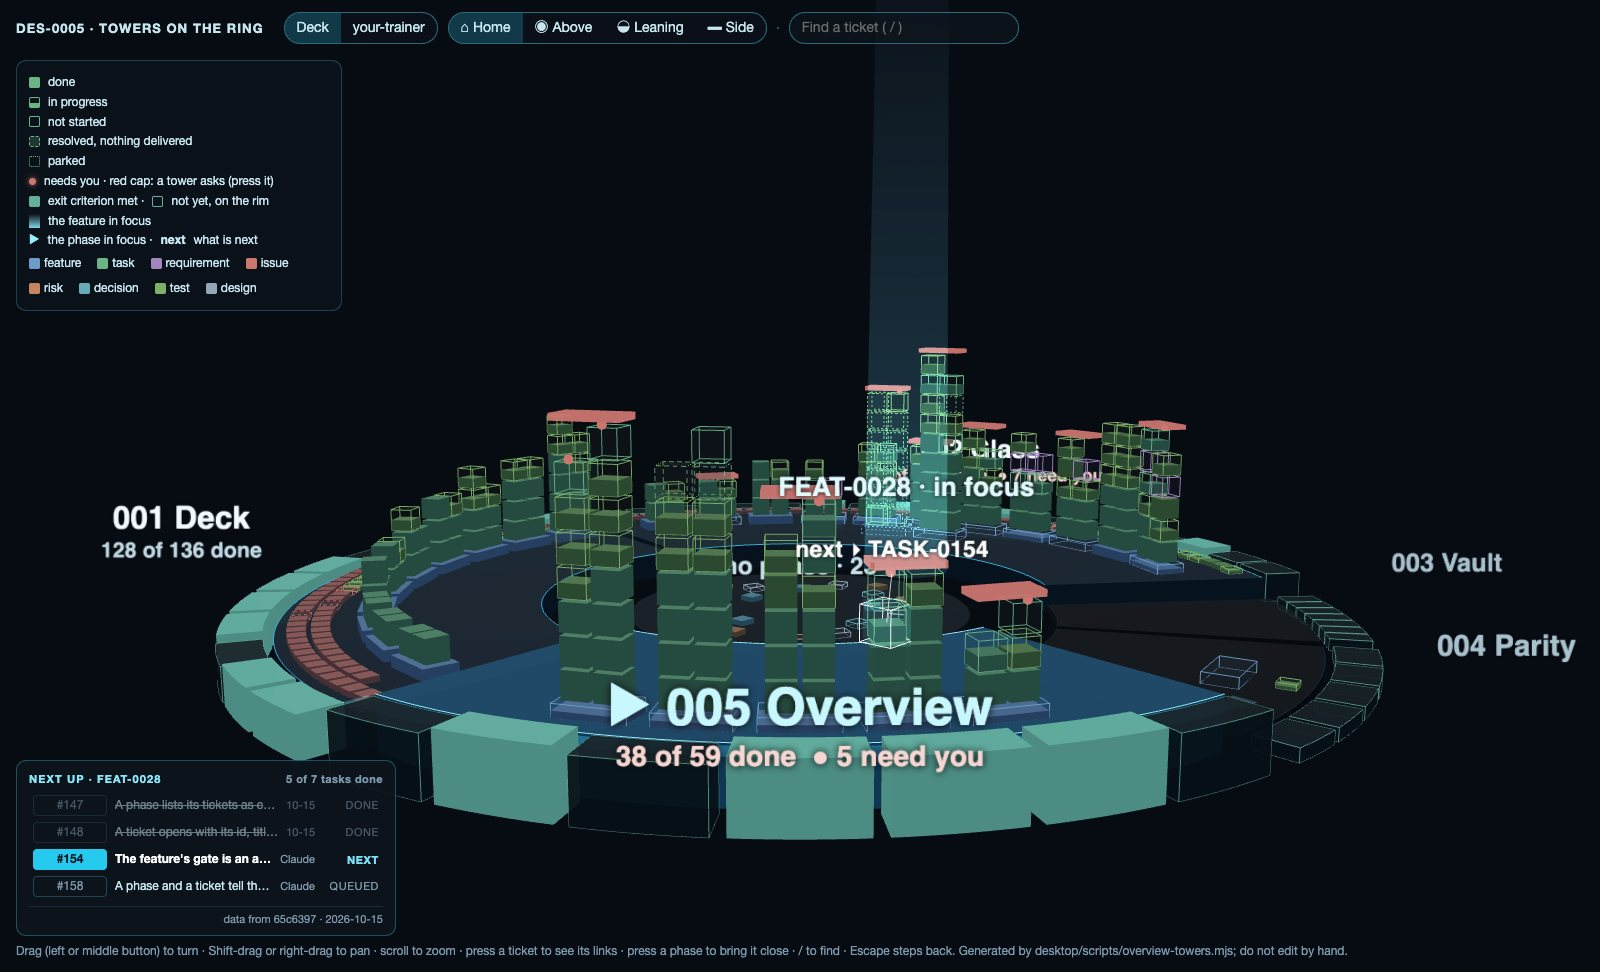
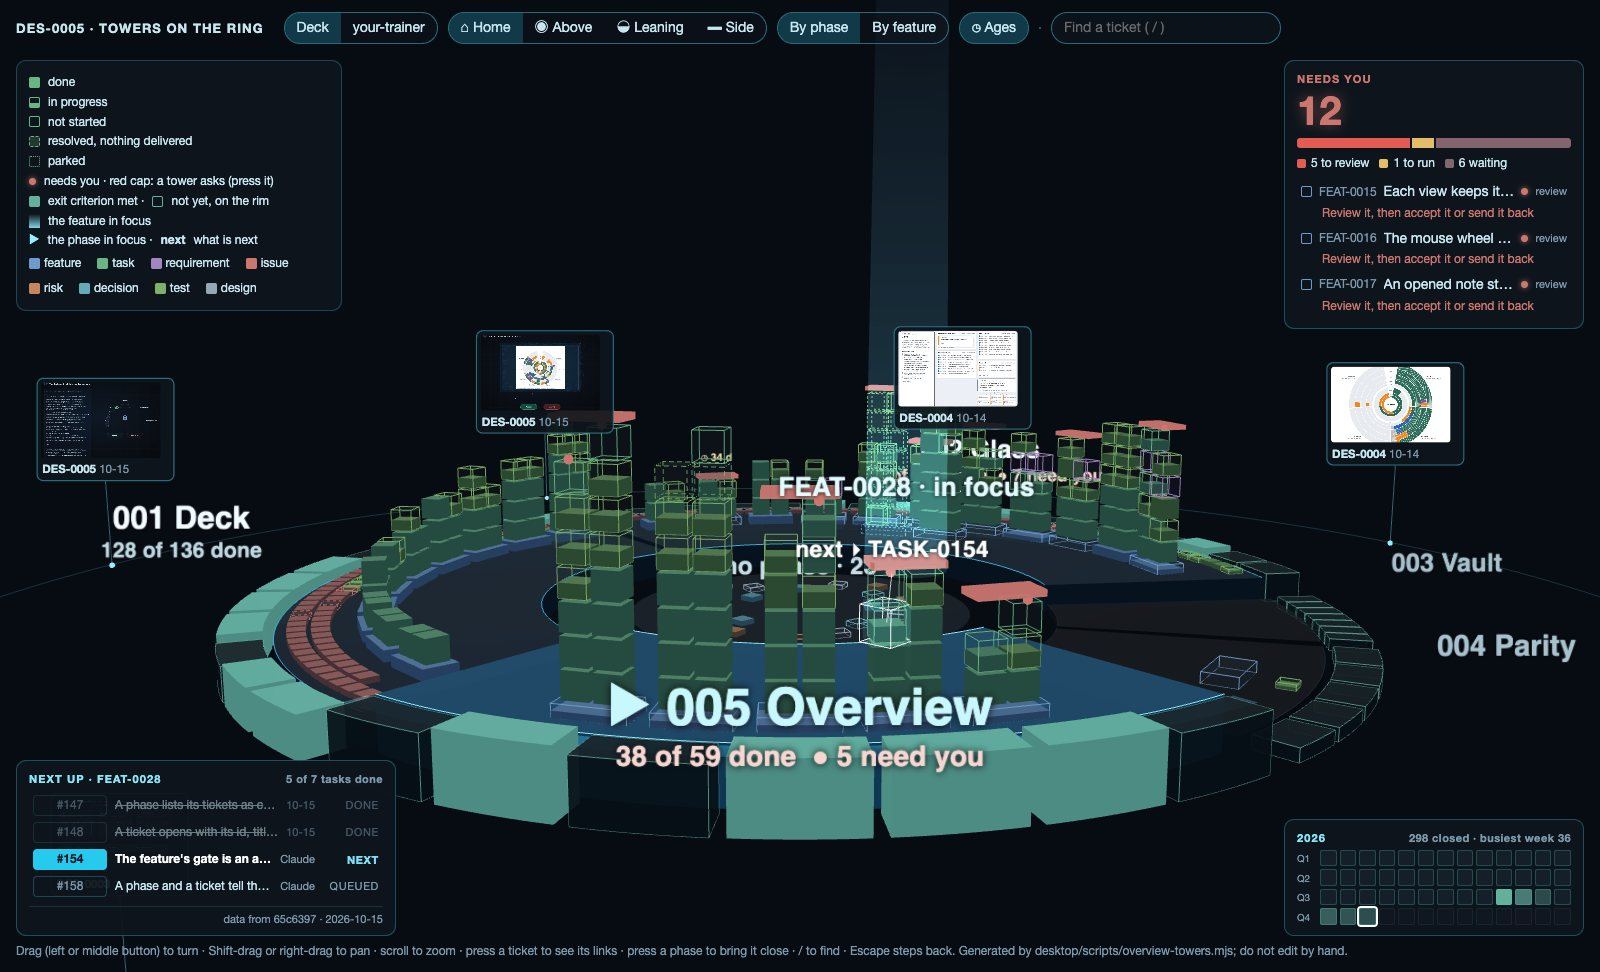
DES-0005 shows the needs-you panel, grouping by feature, age badges, the evidence ring and the weeks, with pictures and what building them would cost (TASK-0177)

diff --git a/docs/designs/DES-0005-The-Overview-Is-Drawn-Not-Written.md b/docs/designs/DES-0005-The-Overview-Is-Drawn-Not-Written.md
@@ -255,6 +255,38 @@ A search for "heart rate" on your-trainer: 29 matches, in four phases of the rin
 - Search matches ids and titles, not the notes' text.
 - The board shows the focus feature only. When the snapshot names no feature in focus, or the feature in focus does not stand on the ring, it says which and is empty.
 
+## Needs you, grouping by feature, ages and weeks, the other four ideas from Rubric
+
+**The towers page now also draws the other four ideas taken from Rubric: a needs-you panel, a switch to group the ring by feature, age badges with a ring of recent evidence, and the year as weeks** ([[TASK-0177]], 2026-10-21). Edwin asked for them after trying the first three. Deck is not changed.
+
+- **A needs-you panel, top right.** A large count of the tickets that need you, then one bar split by the cockpit's reasons: failed, to review, to decide (triage), to run (a test never run) and waiting. The first three tickets follow as cockpit rows, the most urgent reason first. Pressing a part of the bar, or its word, lights those tickets on the ring as a search does; pressing a row selects its ticket.
+- **By phase, or by feature.** A switch in the header regroups the ring. By feature, each unfinished feature is a segment with its tickets as one tower, whatever phase they are in, and the feature in focus faces you. Finished features stand on the shelf, and tickets of no feature lie in the core. Each segment's name is smaller than a phase's, since there are many more of them. The page remembers the choice in this browser.
+- **Age badges.** A tower whose tickets have not changed for 14 days or more carries "◷ 34 d": the days from its newest change to the date the data was read, which is the fixture's date, not today. The card gives the same count for one ticket. "◷ Ages" in the header hides and shows them.
+- **A ring of recent evidence**, outside the shelf: up to eighteen of the newest pictures kept beside the notes, at most three for one ticket, each on a post with its ticket's id and date. A picture belongs to the note that links to it, else to the ticket its file name names, else to the feature whose folder holds it; its date is its last commit. Pressing one selects its ticket. The pictures are the files themselves, so the page shows them only where the repositories sit side by side, as here.
+- **The year as weeks, bottom right**: four rows of thirteen squares, each filled by the tickets closed that week, the week the data was read outlined and the weeks after it faint. A ticket's closing week is the last update of its note. Pressing a week lights the tickets closed in it.
+- The two panels on the right give way to the right pane when it opens.
+
+![Deck grouped by feature](__attachments__/DES-0005/towers-deck-byfeature.jpg)
+
+Deck grouped by feature: the 15 unfinished features stand on the ring, FEAT-0028 in focus at the front, and 147 tickets of no feature lie in the core. The needs-you panel counts 12: 5 to review, 1 to run and 6 waiting. The year shows 298 tickets closed in 2026, the busiest week the 36th. The evidence ring holds eight pictures: three each of DES-0005 and DES-0004, two of DES-0003.
+
+![Deck as the page opens, with the panels round the towers](__attachments__/DES-0005/towers-deck-home.jpg)
+
+Deck by phase, as the page opens, with every panel round the towers. One tower carries an age badge: FEAT-0016 in Glass, quiet for 34 days.
+
+![your-trainer grouped by feature](__attachments__/DES-0005/towers-your-trainer-byfeature.jpg)
+
+your-trainer grouped by feature: 51 unfinished features on the ring and 1,520 tickets of no feature in the core. 75 tickets need you: 5 to decide, 9 to run and 61 waiting. 1,478 tickets closed in 2026, most in week 24.
+
+![your-trainer as the page opens](__attachments__/DES-0005/towers-your-trainer-home.jpg)
+
+your-trainer by phase: 41 towers carry age badges, the quietest FEAT-0025 and FEAT-0028 in the backlog phase at 235 and 233 days. The evidence ring holds eighteen pictures, from DES-0006, DES-0005, FEAT-0112, FEAT-0129 and six issues.
+
+**What building them into Deck would cost.** The needs-you panel needs nothing new: each ticket's reason is already in Deck's overview model. Grouping by feature uses the feature each ticket already carries (FEAT-0026). Age badges and the weeks need each note's `updated:` in the model, which TASK-0176's board needs as well. The evidence ring needs a new read: the pictures beside the notes and their dates, which the sidecar does not list today; Deck would serve them read-only, like the notes. **What it leaves open:**
+- A ticket's closing week is its note's last update, which can be later than the day it closed.
+- Ages are counted to the fixture's date on this page; in Deck they would count to today.
+- Pictures not linked from a note and not named after a ticket count only when they lie in a feature's folder; the marketing pictures in your-trainer belong to no ticket and are left out.
+
 ## Answers proposed to DES-0004's open questions
 
 1. **A backlog phase** is marked with `kind: backlog` in its note. When the note says nothing, an id ending in 999 is read as backlog, so your-trainer's PHASE-999 works today.
@@ -266,7 +298,8 @@ A search for "heart rate" on your-trainer: 29 matches, in four phases of the rin
 
 - Whether to build Level 2, the 3D wheel where height is time, into Deck, after looking at its page. It would replace or sit beside the constellation.
 - ~~Whether to build the towers on the ring into Deck.~~ Decided 2026-10-16: "I like the design page, please implement as suggested", with a different design for the exit criteria (the collar) and the red caps pressable. Built in [[TASK-0164]] to [[TASK-0168]]; three.js is [[RISK-0010]].
-- Whether to build the links as curves, search on the ring, and the next-up board into Deck, after trying them on the towers page ([[TASK-0176]]). The other four of Rubric's ideas are drawn next on the same page ([[TASK-0177]]).
+- Whether to build the links as curves, search on the ring, and the next-up board into Deck, after trying them on the towers page ([[TASK-0176]]).
+- Whether to build the needs-you panel, grouping by feature, age badges, the evidence ring and the weeks into Deck ([[TASK-0177]]), and whether the ring should open grouped by phase or by feature.
 
 - Accept or decline this design.
 - Whether S5's fanned plates should be drawn as outlines only: behind a busy plate they compete with it.

diff --git a/docs/features/overview-design/plan/tasks/TASK-0177-Needs-You-Grouping-Ages-And-Weeks-Drawn-On-The-Towers-Page.md b/docs/features/overview-design/plan/tasks/TASK-0177-Needs-You-Grouping-Ages-And-Weeks-Drawn-On-The-Towers-Page.md
@@ -14,7 +14,7 @@ due: ""
 depends: ["[[TASK-0176]]"]
 blocks: []
 related: ["[[REFERENCE-RUBRIC-AGENTIC-OS-REVIEW]]", "[[DES-0005-The-Overview-Is-Drawn-Not-Written]]", "[[TASK-0176]]"]
-tests: []
+tests: ["[[TST-0094-DES-0005s-Plates-Are-Drawn-For-Every-Screen-With-Every-Mark]]"]
 ---
 
 # Needs-you panel, grouping, ages and weeks drawn on the towers page
@@ -32,7 +32,15 @@ tests: []
 
 ## Definition of Done
 
-- [ ] Each of the four is drawn on the page from the fixtures, the notes and the pictures beside them, with nothing entered by hand.
-- [ ] TST-0094 checks what each draws against the fixture.
-- [ ] Pictures of each, on both workspaces, are in DES-0005 with the question whether to build them.
+- [x] Each of the four is drawn on the page from the fixtures, the notes and the pictures beside them, with nothing entered by hand.
+- [x] TST-0094 checks what each draws against the fixture.
+- [x] Pictures of each, on both workspaces, are in DES-0005 with the question whether to build them.
 - [ ] `cd desktop && npm test` passes. Two independent Claude reviewers review it.
+
+## Verification
+
+`desktop/scripts/overview-towers.mjs` adds to each workspace: why each ticket needs you (a ninth column of its row), the date the data was read, the ring grouped by feature (ids only; the page takes the rows from the phase grouping), and the evidence pictures. `evidenceFrom` in `overview-towers-notes.mjs` picks the pictures from `git ls-tree` and `git log` at the fixture's commit, keeping those still in the working tree. Deck: 15 features on the ring, 14 on the shelf, 147 tickets in the core, 8 pictures, 12 need you (5 to review, 1 to run, 6 waiting), 298 closed in 2026, one age badge (FEAT-0016, 34 days). your-trainer: 51, 84 and 1,520; 18 pictures; 75 need you (5 to decide, 9 to run, 61 waiting); 1,478 closed; 41 age badges. The page grew to 1.75 MB.
+
+TST-0094 checks every ticket's reason against the fixture, the data's date, every ticket exactly once grouped by feature, the ring as the unfinished features, a feature's tower and segment holding the same tickets, and the pictures (tickets of the fixture, newest first, at most three each and eighteen in all, each file where the page looks). `evidenceFrom` is tested on small notes and files of its own: by a relative link, a wiki link, a name and a folder, newest first, one per ticket, the linking note first. Breaking four of the guards made it fail: four pictures for one ticket, the folder rule lost, the reason column emptied, finished features on the ring. `cd desktop && npm test`: 795 tests, 795 passed.
+
+In a hidden window the page logged no errors and was driven with real presses: the grouping switch both ways, "◷ Ages" off and on, "to review" in the needs-you panel (5 lit), week 37 (72 lit), a needs-you row (selected, the right panels giving way to the pane), Escape, and an evidence picture (its ticket selected). Pictures: `towers-<workspace>-byfeature.jpg`, and the opening views again with the panels.
